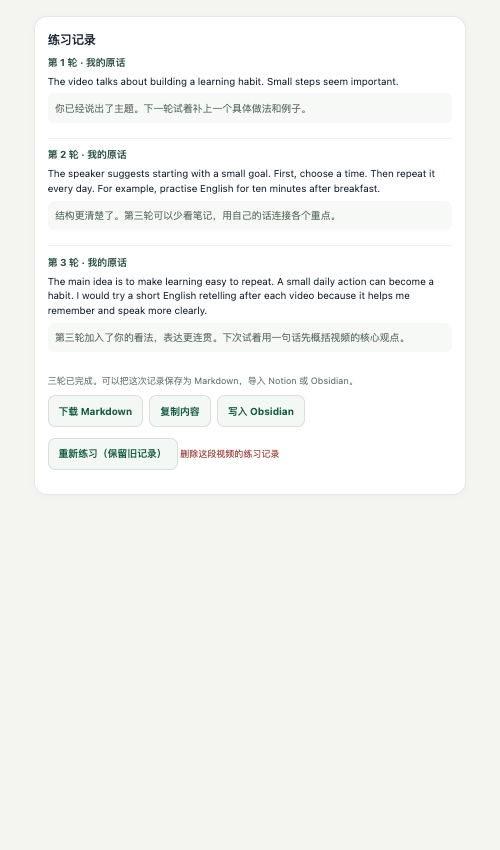
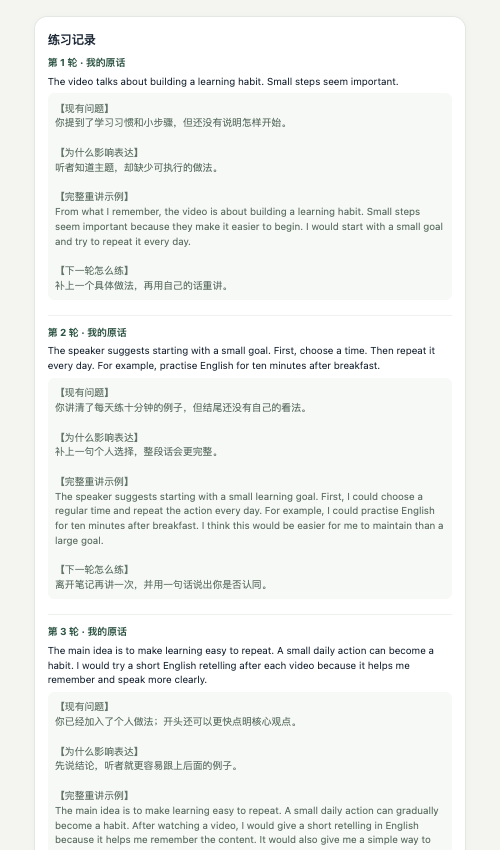
Prepare Chrome Web Store submission materials

diff --git a/extension/sidepanel.html b/extension/sidepanel.html
@@ -30,7 +30,6 @@
         <select id="api-provider">
           <option value="openai">OpenAI</option>
           <option value="bailian">阿里云百炼（普通 API Key）</option>
-          <option value="bailian-coding">阿里云百炼 Coding Plan</option>
         </select>
         <a id="get-api-key" class="button secondary key-link" href="https://platform.openai.com/api-keys" target="_blank" rel="noopener noreferrer">前往 OpenAI 官网获取 API Key ↗</a>
         <p id="key-link-help" class="minor">将在新标签页打开；创建后返回这里粘贴。</p>

diff --git a/scripts/package_extension.py b/scripts/package_extension.py
@@ -1,0 +1,24 @@
+"""Create a Chrome Web Store ZIP containing only the extension files."""
+
+import hashlib
+import json
+from pathlib import Path
+from zipfile import ZIP_DEFLATED, ZipFile
+
+ROOT = Path(__file__).resolve().parents[1]
+SOURCE = ROOT / "extension"
+manifest = json.loads((SOURCE / "manifest.json").read_text(encoding="utf-8"))
+version = manifest["version"]
+target = ROOT / "dist" / f"video-speaking-coach-{version}.zip"
+target.parent.mkdir(exist_ok=True)
+files = sorted(path for path in SOURCE.rglob("*") if path.is_file())
+if not files or any(path.is_symlink() or path.name.startswith(".") for path in files):
+    raise SystemExit("Extension directory contains unexpected files")
+with ZipFile(target, "w", compression=ZIP_DEFLATED) as archive:
+    for path in files:
+        archive.write(path, path.relative_to(SOURCE).as_posix())
+with ZipFile(target) as archive:
+    assert "manifest.json" in archive.namelist()
+    assert len(archive.namelist()) == len(files)
+print(f"{target} ({len(files)} files)")
+print(f"SHA-256: {hashlib.sha256(target.read_bytes()).hexdigest()}")

diff --git a/launch/STORE_SUBMISSION.md b/launch/STORE_SUBMISSION.md
@@ -1,0 +1,47 @@
+# Chrome Web Store 后台填写资料
+
+**当前状态：**资料与上传包已准备；尚未登录开发者后台或提交审核。上传前以最终 ZIP 和后台当时的字段为准。
+
+## 账号与商店页面
+
+- 发布者名称：`tian1363`
+- 联系邮箱：`tian015252@163.com`（需在开发者后台完成邮箱验证）
+- 隐私政策 URL：`https://github.com/tian1363/video-speaking-coach/blob/main/PRIVACY_POLICY.md`
+- 首页 URL：`https://github.com/tian1363/video-speaking-coach`
+- 支持 URL：`https://github.com/tian1363/video-speaking-coach/issues`
+- 分类：教育；主要语言：简体中文。
+- 名称与介绍：复制 [中文商店文案](STORE_LISTING_ZH.md)；若后台要求英文，使用[英文文案](STORE_LISTING_EN.md)。
+- 截图与图标：见 [素材清单](ASSET_PLAN.md)。历史截图使用明确标注的虚构演示记录。
+
+## 单一用途
+
+帮助用户围绕自己观看的 YouTube 视频，按“关键词 → 三轮英语复述 → 反馈 → 保存记录”的流程练习口语表达。
+
+## 权限理由
+
+| 权限或站点 | 后台可填写的理由 |
+| --- | --- |
+| `sidePanel` | 在视频旁显示关键词、复述、反馈和历史记录。 |
+| `storage` | 在本机保存练习记录，并在当前 Chrome 会话保存用户自己的 API Key。 |
+| YouTube、`youtu.be` 站点 | 识别普通视频、Shorts 与直播回放链接，并在切换标签页后更新当前练习视频。 |
+| OpenAI API | 用户选择 OpenAI 并主动请求建议、语境查词或问答时调用其 API。 |
+| 阿里云百炼 API 站点 | 用户选择百炼及所属地域并主动请求上述 AI 功能时调用对应地域的 API。 |
+| MyMemory 翻译 API | 用户主动输入单词或短语进行基础翻译时发送该查询词。 |
+
+扩展代码没有从远程加载并执行 JavaScript；AI 与翻译接口只返回数据。不要把“使用 AI API”误填为“执行远程代码”。
+
+## 隐私表单核对
+
+向后台如实披露：视频地址和标题、用户输入的关键词与复述、问题和查词内容、AI 反馈，以及作为认证信息的用户 API Key。练习记录存在扩展本地；主动调用功能时，相关内容会直接发给所选服务商。语音识别由浏览器提供，扩展不保存原始音频。扩展不运行行为分析、不出售数据、不投放个性化广告。各分类名称以后台实际选项为准，核对 [公开隐私政策](../PRIVACY_POLICY.md) 后提交。
+
+## 给审核员的测试说明
+
+1. 在桌面版 Chrome 打开任意公开的 YouTube 视频页，点击扩展图标，侧边栏应出现该视频。
+2. 看完后输入关键词，在第一轮文本框输入英文并提交。无需 API Key 即可完成三轮及使用基础翻译；建议区会显示固定练习提示。
+3. 在“AI 教练设置”选择 OpenAI 或阿里云百炼，填入相应地域可用的普通 API Key 和模型后，可测试个性化建议。若审核需要测试凭证，请只通过开发者后台的私有测试说明提供短期凭证，不要写进仓库、截图或 ZIP。
+4. 完成三轮后可下载 Markdown、重新练习并查看旧尝试；删除记录按钮可清除当前视频的本地数据。
+5. 麦克风需由用户主动点击“开始语音输入”并授权；也可直接打字完成全部流程。
+
+## 上传顺序
+
+运行 `npm test` 和 `npm run package:extension`，将 `dist/video-speaking-coach-0.1.0.zip` 上传到开发者后台。依次填写 Store Listing、Privacy、Distribution 和必要的 Test instructions，检查无警告后提交审核。若选择审核通过后手动发布，请在后台规定期限内完成发布。**提交审核与公开发布仍需由持有开发者账号的人在后台操作。**

diff --git a/PRIVACY_POLICY.md b/PRIVACY_POLICY.md
@@ -1,0 +1,35 @@
+# Video Speaking Coach 隐私政策
+
+**发布者：**tian1363  
+**联系邮箱：**tian015252@163.com  
+**生效日期：**2026 年 9 月 26 日
+
+Video Speaking Coach 是一款用于 YouTube 视频英语复述练习的浏览器扩展。本政策说明扩展处理哪些数据、数据去向，以及用户如何控制这些数据。
+
+## 扩展使用的数据
+
+- 扩展读取当前 YouTube 视频的链接和标题，用于关联练习；不下载视频，不读取完整字幕、YouTube 登录信息或其他网页正文。
+- 关键词、英文转写、三轮复述记录、AI 反馈、收藏的词汇和最近视频信息保存在 Chrome 的扩展本地存储中。重新练习时，旧尝试也会留在本地，直到用户删除该视频的记录或卸载扩展。
+- 用户填写的 API Key 保存在当前 Chrome 会话的扩展存储中，关闭浏览器后需要重新输入。Key 不写入练习记录或 Markdown 导出文件。
+- 扩展不保存原始音频，也不建立用户账号或采集使用行为分析数据。
+
+## 数据传输
+
+- 使用基础查词时，用户输入的单词或短语发送至 MyMemory 翻译服务。
+- 用户主动请求 AI 建议、语境查词或问答时，相关视频标题、关键词、英文转写或问题，以及 API Key，会直接发送到用户选定的 OpenAI 或阿里云百炼服务。Key 用于该服务商的请求认证。扩展开发者不通过自己的服务器接收这些请求。服务商的数据处理由其自身政策和用户的账号设置决定。
+- 语音输入使用浏览器提供的语音识别功能；浏览器可能使用线上服务处理音频。用户也可以不使用语音识别，直接输入英文。
+- 扩展与上述服务的网络请求使用 HTTPS。扩展不把用户数据用于广告定向，也不出售用户数据。
+
+## 用户的选择与删除
+
+用户可以不填写 API Key，仍可进行手动练习和基础查词。用户可以在扩展中查看、导出或删除某个视频的本地练习记录，也可以清除会话中保存的 API Key。卸载扩展会删除 Chrome 管理的该扩展本地数据。
+
+导出 Markdown、复制内容、写入 Obsidian 或手动导入 Notion 均由用户主动操作；当前版本不会连接用户的 Notion 账户。
+
+## Chrome Web Store 数据使用限制
+
+扩展仅为上述用户可见的口语练习功能使用和传输数据。对从 Chrome API 获得的信息，扩展遵守 Chrome Web Store 用户数据政策及其 Limited Use 要求：只用于提供或改进该单一用途，不用于个性化广告，不出售给第三方，也不允许开发者人工查看用户的私人练习内容（用户为获得支持而明确提供的具体内容除外）。
+
+## 联系与更新
+
+如对隐私或数据删除有疑问，请联系 tian015252@163.com。政策更新时，我们会在此页面标注新的生效日期。

diff --git a/launch/PUBLISH_CHECKLIST.md b/launch/PUBLISH_CHECKLIST.md
@@ -1,14 +1,17 @@
 # 发布前需要完成
 
 - [x] 公开 GitHub 仓库与 MIT 许可证；仓库为 `tian1363/video-speaking-coach`。
-- [ ] 确定商店发布者名称与支持邮箱。
-- [ ] 将 [隐私说明](../PRIVACY.md)整理成公开可访问的隐私政策 URL；商店表单与实际数据流保持一致。
-- [ ] 核对扩展权限说明：YouTube 地址读取、OpenAI/百炼 API、MyMemory 基础翻译、侧边栏、存储。
-- [ ] 在目标 Chrome 版本上复测麦克风授权、语音识别、三轮提交、错误提示、删除及导出。
+- [x] 确定商店发布者名称 `tian1363` 与支持邮箱 `tian015252@163.com`；后台邮箱验证仍待完成。
+- [x] 写好 [公开隐私政策](../PRIVACY_POLICY.md) 并准备 GitHub 公开 URL；商店表单须依[填写资料](STORE_SUBMISSION.md)逐项核对。
+- [x] 核对并写好扩展权限理由：YouTube 地址读取、OpenAI/百炼 API、MyMemory 基础翻译、侧边栏、存储。
+- [x] 自动化实测视频关联、三轮提交、无 Key 提示、导出、重来与删除；单元测试通过。
+- [ ] 在用户浏览器复测麦克风授权和真实语音识别。
 - [ ] 使用真实服务商账号验证 OpenAI 和百炼请求；测试所选地域及模型。
-- [ ] 用脱敏后的真实历史记录替换演示历史截图，并确认本人愿意公开。
-- [ ] 检查商店文案、截图、宣传图与当前功能一致；不得写“免费 AI”或“Notion 自动同步”。
-- [ ] 录制演示视频并上传到可公开访问的 YouTube 链接（如商店后台需要）。
+- [x] 更新商店截图和宣传图；历史截图明确标注虚构演示数据。真实历史截图可作为以后优化，不阻挡首发。
+- [x] 检查商店文案与当前功能一致；不写“免费 AI”或“Notion 自动同步”。
+- [x] 制作仅含 `extension/` 内容的商店 ZIP；上传前再核对包内文件。
+- [ ] 若商店后台要求演示视频，再录制并上传公开的 YouTube 链接。
+- [ ] 在开发者后台注册/验证邮箱、上传 ZIP，填写商店资料、隐私声明、分发范围，并提交审核。
 - [ ] 在 Chrome Web Store 开发者后台填写商店资料、隐私声明、分发范围，提交审核。
 
-当前文件包是**发布准备材料**，尚未提交商店。官方要求见 [商店列表](https://developer.chrome.com/docs/webstore/cws-dashboard-listing)、[隐私与用户数据](https://developer.chrome.com/docs/webstore/user_data)。
+当前文件包是**发布准备材料**，尚未提交商店。真实服务商调用与麦克风需要用户的账号和设备确认。官方要求见 [商店列表](https://developer.chrome.com/docs/webstore/cws-dashboard-listing)、[隐私与用户数据](https://developer.chrome.com/docs/webstore/user_data)。

diff --git a/PRIVACY.md b/PRIVACY.md
@@ -1,5 +1,7 @@
 # 数据说明（开发版）
 
+正式对外的隐私政策见 [PRIVACY_POLICY.md](PRIVACY_POLICY.md)。
+
 此文件描述当前本地开发版的实际行为，不是已发布商店版本的隐私政策。
 
 - 扩展打开后会随当前活动标签页变化读取 YouTube 视频 URL 和标题，以关联练习记录；不下载视频，也不读取完整字幕。为此，扩展声明了 YouTube 站点的访问权限。
@@ -10,4 +12,4 @@
 - 基础查词会把用户输入的单词或短语发送给 MyMemory 公共翻译服务。设置自己的 AI 服务商和 API Key 后，用户主动提交复述、查词或提问时，相关视频标题、关键词、转写和问题会直接发送给所选 OpenAI 或阿里云百炼 API。密钥只会发送给所选服务商；上游服务如何处理数据以其条款和配置为准。
 - 用户填写的 API Key 只保存在当前 Chrome 会话的扩展存储中，关闭浏览器后需重新输入。插件不会把密钥写入练习记录或导出的 Markdown；本机浏览器配置遭到访问时仍存在泄露风险。
 - 不发送浏览器历史、其他标签页内容、YouTube 登录信息或完整视频文件。
-- 卸载扩展会删除 Chrome 管理的本地扩展数据。正式发布前需要提供独立的隐私政策网址和准确的商店数据披露。
+- 卸载扩展会删除 Chrome 管理的本地扩展数据。商店数据披露应与公开隐私政策和最终上传包保持一致。

diff --git a/launch/ASSET_PLAN.md b/launch/ASSET_PLAN.md
@@ -14,7 +14,7 @@
 
 ## 真实历史记录截图
 
-用户已选择**遮住个人信息后展示**。目前还缺一张完整的三轮记录截图或从插件导出的该次 Markdown；收到后制作 `screenshot-03-history-real.png`，并在正式上传前逐项检查：视频标题、个人观点、账号名、API Key、URL 查询参数以及其他可识别信息。现有 `screenshot-03-history-demo.png` 是在真实插件界面中注入虚构练习内容生成的演示图，不是用户历史。
+用户已选择**遮住个人信息后展示**。目前还缺一张完整的三轮记录截图或从插件导出的该次 Markdown；收到后可制作 `screenshot-03-history-real.png`，并逐项检查视频标题、个人观点、账号名、API Key、URL 查询参数以及其他可识别信息。真实记录截图不是提交商店的必需条件；现有 `screenshot-03-history-demo.png` 是在真实插件界面中注入虚构练习内容生成的演示图，已明确标注演示数据，可用于首发。
 
 ## 尺寸和呈现原则
 

diff --git a/README.md b/README.md
@@ -31,7 +31,7 @@
 
 ## 数据与费用
 
-练习记录保存在本机 Chrome 扩展存储中，扩展不保存原始音频。语音转写由浏览器提供，可能使用线上识别服务。基础查词会把查询词发送给 MyMemory；启用 AI 时，用户主动提交的相关文字会发送给所选服务商。API Key 仅保存在当前 Chrome 会话中。详见[数据说明](PRIVACY.md)。
+练习记录保存在本机 Chrome 扩展存储中，扩展不保存原始音频。语音转写由浏览器提供，可能使用线上识别服务。基础查词会把查询词发送给 MyMemory；启用 AI 时，用户主动提交的相关文字会发送给所选服务商。API Key 仅保存在当前 Chrome 会话中。详见[隐私政策](PRIVACY_POLICY.md)。
 
 插件本身与基础练习不要求购买课程。符合条件的服务商免费额度可以使用；额度、期限、价格和地区均由服务商决定。不要把“自带 Key”理解为任意 API Key 均兼容。
 

diff --git a/launch/README.md b/launch/README.md
@@ -10,7 +10,7 @@
 - [产品简介](PRODUCT_ONE_PAGER.md)、[社交平台文案与演示脚本](PROMOTION_COPY.md)
 - [费用与竞品对比笔记](PRICING_COMPARISON.md)
 - [素材清单与真实记录截图状态](ASSET_PLAN.md)、[发布前检查](PUBLISH_CHECKLIST.md)
-- [公开隐私政策草稿](PRIVACY_POLICY_DRAFT.md)
+- [公开隐私政策](../PRIVACY_POLICY.md)、[商店后台填写资料](STORE_SUBMISSION.md)
 
 ## 图片
 
